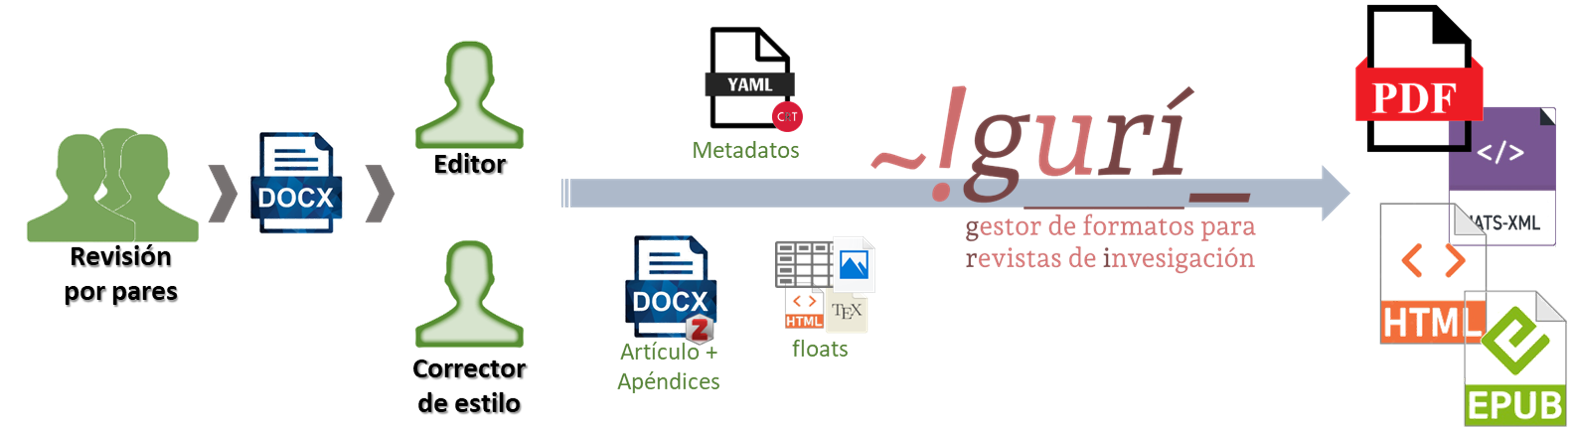
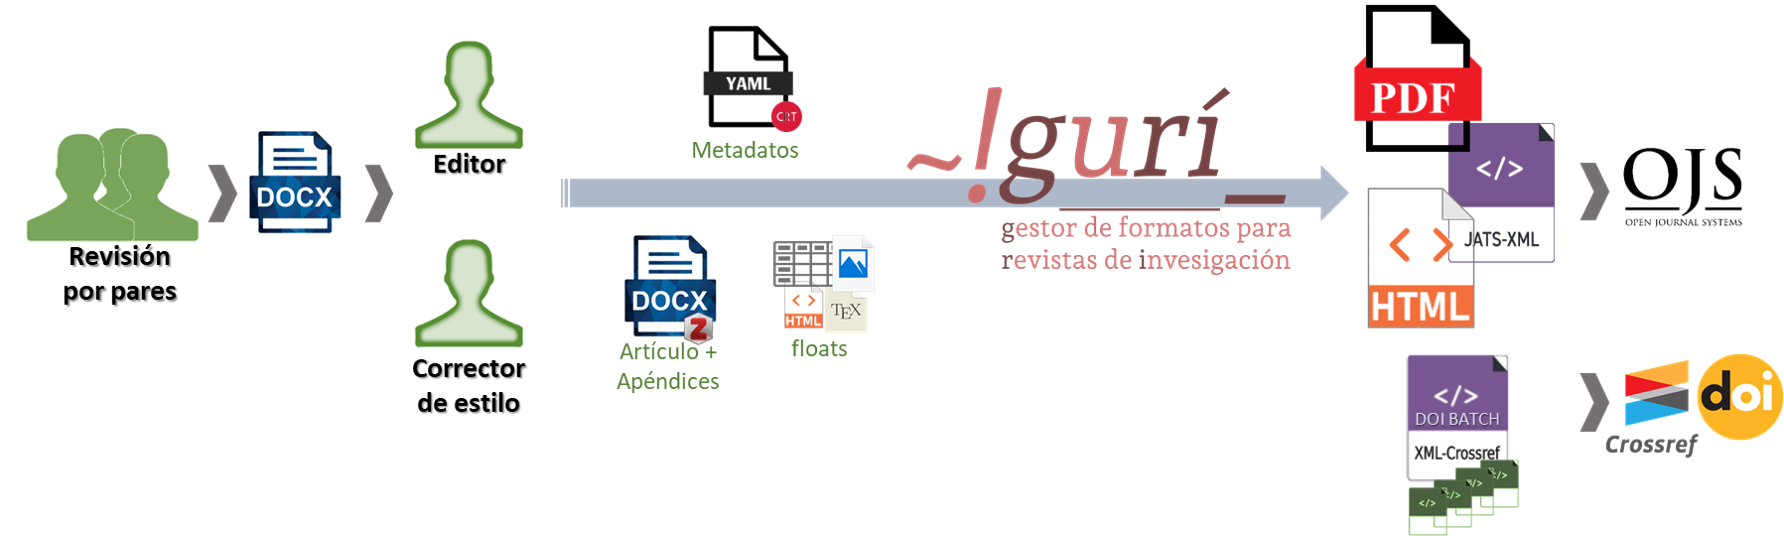
Actualice documentation

diff --git a/docs/index.html b/docs/index.html
@@ -220,18 +220,19 @@ pre > code.sourceCode > span > a:first-child::before { text-decoration: underlin
 <p><a href="http://creativecommons.org/licenses/by-nc-sa/4.0/"><img src="https://img.shields.io/badge/License-CC%20BY--NC--SA%204.0-lightgrey.svg" class="img-fluid" alt="CC BY-NC-SA 4.0"></a> <!--[![es](https://img.shields.io/badge/lang-es-yellow.svg)](https://github.com/estedeahora/guri/blob/main/README.md) [![en](https://img.shields.io/badge/lang-en-red.svg)](https://github.com/estedeahora/guri/blob/main/README.en.md)--></p>
 <section id="descripción-de-la-propuesta" class="level1">
 <h1>Descripción de la propuesta</h1>
-<p><code>~!gurí_</code> es una propuesta que facilita la etapa de producción editorial de revistas científicas, mediante la generación de documentos finales a partir de documentos obtenidos en la etapa de ‘corrección de pruebas’ en formato <code>docx</code>. La propuesta busca resolver las dificultades que atraviesan algunas revistas académicas de acceso diamante para la generación de documentos finales en diferentes formatos de forma consistente, evitando procesos duplicados y altos costos editoriales. Además, toma en cuenta que muchas revistas científicas utilizan como base de sus flujos de trabajos documentos <code>docx</code>. <!--  La propuesta surgió como respuesta a la dificultad de las revistas académcias de acceso diamante para generar los documentos finales del proceso de publicación sin aumentar los costos de publicación. --></p>
-<p>En términos resumidos, la propuesta propone esquematizar y separar los principales elementos que componen un artículo científico. Para ello, para cada artículo, se debe generar un archivo <code>docx</code> (generado mediante una plantilla predefinida y con las citas identificadas con Zotero) y un archivo <code>yaml</code> con los metadatos del artículo. Opcionalmente, puede brindarse otros archivos con información de la <a href="https://credit.niso.org/">taxonomía CRediT</a>, elementos flotantes (figuras y tablas) y apéndices. A partir de estos archivos iniciales se genera un archivo intermedio <code>markdown</code>, que se utiliza para generar los documentos finales (en formato <code>pdf</code>, <code>html</code> y <code>xml</code>). Por su diseño la propuesta permite una fuerte adaptación y personalización para que pueda ser adaptado a las particularidades y estética de cada revista.</p>
+<p><code>~!gurí_</code> es una propuesta que facilita la etapa de producción editorial de revistas científicas, mediante la generación de documentos finales a partir de documentos obtenidos de la etapa de ‘revisión de pares’ en formato <code>docx</code>. Para ello, esta propuesta se centra en el paquete de R <code>{guri}</code>, el cual se encarga de coordinar el proceso de generación de los documentos finales en diferentes formatos.</p>
+<p>Esta propuesta busca resolver las dificultades que atraviesan algunas revistas académicas de acceso diamante para la generación de documentos finales en diferentes formatos de forma consistente, evitando procesos duplicados y altos costos editoriales. Además, toma en cuenta que muchas revistas científicas utilizan como base de sus flujos de trabajos documentos <code>docx</code>. <!--  La propuesta surgió como respuesta a la dificultad de las revistas académcias de acceso diamante para generar los documentos finales del proceso de publicación sin aumentar los costos de publicación. --></p>
+<p>La propuesta propone esquematizar y separar los principales elementos que componen un artículo científico. Para ello, para cada artículo, se debe generar un archivo <code>docx</code> (generado mediante una plantilla predefinida y con las citas identificadas con Zotero) y un archivo <code>yaml</code> con los metadatos del artículo. Opcionalmente, puede brindarse otros archivos con información de la <a href="https://credit.niso.org/">taxonomía CRediT</a>, elementos flotantes (figuras y tablas) y apéndices. A partir de estos archivos iniciales se genera un archivo intermedio <code>markdown</code>, que se utiliza para generar los documentos finales (en formato <code>pdf</code>, <code>html</code> y <code>xml</code>). Por su diseño la propuesta permite una fuerte adaptación y personalización para que pueda ser adaptado a las particularidades y estética de cada revista.</p>
 <div class="quarto-figure quarto-figure-center">
 <figure class="figure">
 <p><img src="figures/scheme_gral.png" class="img-fluid figure-img"></p>
 <figcaption>Esquema general</figcaption>
 </figure>
 </div>
-<p>De forma resumida, podemos señalar que la propuesta de ~<code>!gurí_</code> se compone de dos aspectos que trabajan de forma coordinada: un flujo de trabajo y un conjunto de herramientas de programación. Por un lado, la propuesta exige adoptar un <em>flujo de trabajo</em>, que incluye una determinada organización de archivos y carpetas, así como el plantillado de los manuscritos siguiendo un conjunto de reglas predefinidas. Por otra parte, la propuesta se basa en un conjunto de <em>herramientas de programación</em> que se encargan de la creación de los documentos finales en los diferentes formatos. Gran parte de este trabajo se hace con <a href="https://pandoc.org/">Pandoc</a>, que es utilizado ‘debajo del capó’ para la conversión entre formatos de marcado. Para adaptar Pandoc a las necesidades de la edición académica, se utilizan un conjunto de filtros <em>Lua</em> y <em>plantillas</em> personalizadas. Por su parte, <a href="https://www.latex-project.org/"><em>LaTeX</em></a> se utiliza para generar los archivos en formato <code>pdf</code>. Por último, la propuesta utiliza el lenguaje de programación <em>R</em> para coordinar y ‘envolver’ todo el proceso, lo cual se realiza mediante el paquete <code>{guri}</code>, el cual es la herramienta.</p>
+<p>De forma resumida, podemos señalar que la propuesta de ~<code>!gurí_</code> se compone de dos aspectos que trabajan de forma coordinada: un flujo de trabajo y un conjunto de herramientas de programación. Por un lado, la propuesta exige adoptar un <em>flujo de trabajo</em>, que incluye una determinada organización de archivos y carpetas, así como el plantillado de los manuscritos siguiendo un conjunto de reglas predefinidas. Por otra parte, la propuesta se basa en un conjunto de <em>herramientas de programación</em> que se encargan de la creación de los documentos finales en los diferentes formatos. Gran parte de este trabajo se hace con <a href="https://pandoc.org/">Pandoc</a>, que es utilizado ‘debajo del capó’ para la conversión entre formatos de marcado. Para adaptar Pandoc a las necesidades de la edición académica, se utilizan un conjunto de filtros <em>Lua</em> y <em>plantillas</em> personalizadas. Por su parte, <a href="https://www.latex-project.org/"><em>LaTeX</em></a> se utiliza para generar los archivos en formato <code>pdf</code>. Por último, la propuesta utiliza el lenguaje de programación <em>R</em> para coordinar y ‘envolver’ todo el proceso. En términos prácticos, todo este proceso es coordinado por el paquete de <em>R</em> <code>{guri}</code>.</p>
 <section id="dependencias-de-software" class="level2">
 <h2 class="anchored" data-anchor-id="dependencias-de-software">Dependencias de software</h2>
-<p>Para el uso de esta herramienta se requiere tener previamente instalado <a href="https://cran.r-project.org/">R</a> (recomendable versión 4.3 o superior), siendo recomendable tener instalado el entorno de desarrollo <a href="https://posit.co/products/open-source/rstudio/">RStudio</a>, el cual facilita el trabajo con R. El paquete de R <code>{guri}</code> es el encargado de coordinar la propuesta de trabajo y la instalación de las otras dependencias de software necesarias (ver <code>guri_install()</code>). En este sentido, como parte de la configuración de <code>{guri}</code> el paquete instalará <a href="https://pandoc.org/">Pandoc</a> y una distribución de <em>LaTeX</em> denominada <a href="https://yihui.org/tinytex/">tinytex</a>, la cual tiene una robusta integración con R, facilitando la instalación de los paquetes de LaTeX que hicieran falta.<a href="#fn1" class="footnote-ref" id="fnref1" role="doc-noteref"><sup>1</sup></a> <!-- Si no tiene instalada una distribución de LaTeX o alguno de estos paquetes, pueden instalar automáticamente la distribución `tinytex` con la función `guri_install(install_tinytex = T)`. --></p>
+<p>Para el uso de esta herramienta se requiere tener previamente instalado <a href="https://cran.r-project.org/">R</a> (recomendable versión 4.3 o superior), siendo recomendable tener instalado el entorno de desarrollo <a href="https://posit.co/products/open-source/rstudio/">RStudio</a>, el cual facilita el trabajo con R. Si bien para el funcionamiento de la propuesta se utilizan otros programas, el paquete de R <code>{guri}</code> se encarga de la instalación de estas dependencias (ver <code>guri_install()</code>). En este sentido, como parte de la configuración de <code>{guri}</code> el paquete instalará <a href="https://pandoc.org/">Pandoc</a> y una distribución de <em>LaTeX</em> denominada <a href="https://yihui.org/tinytex/">tinytex</a>, la cual tiene una robusta integración con R, facilitando la instalación de los paquetes de LaTeX que hicieran falta.<a href="#fn1" class="footnote-ref" id="fnref1" role="doc-noteref"><sup>1</sup></a></p>
 </section>
 <section id="instalación" class="level2">
 <h2 class="anchored" data-anchor-id="instalación">Instalación</h2>
@@ -260,7 +261,7 @@ The final documents of this journal were generated using <a href="https://github
 <p><em>Português:</em><br>
 Os documentos finais desta revista foram gerados usando <a href="https://github.com/estedeahora/guri">~!guri_</a>.</p>
 </blockquote>
-<p>Esta obra está bajo una licencia <a href="http://creativecommons.org/licenses/by-nc-sa/4.0/">Creative Commons Attribution-NonCommercial-ShareAlike 4.0 International License</a>. Este software no ofrece garantía de ningún tipo.</p>
+<p>Esta herramienta está bajo una licencia <a href="http://creativecommons.org/licenses/by-nc-sa/4.0/">Creative Commons Attribution-NonCommercial-ShareAlike 4.0 International License</a>. Este software no ofrece garantía de ningún tipo.</p>
 <div class="quarto-figure quarto-figure-left">
 <figure class="figure">
 <p><a href="http://creativecommons.org/licenses/by-nc-sa/4.0/"><img src="https://licensebuttons.net/l/by-nc-sa/4.0/88x31.png" class="img-fluid quarto-figure quarto-figure-left figure-img" alt="CC BY-NC-SA 4.0"></a></p>
@@ -270,7 +271,7 @@ Os documentos finais desta revista foram gerados usando <a href="https://github.
 </section>
 <section id="contribuir" class="level2">
 <h2 class="anchored" data-anchor-id="contribuir">Contribuir</h2>
-<p>Se aceptan solicitudes de <!--extracción-->, informes de errores y solicitudes de funciones. <!-- Utilice los 'issue' o 'debates' de [Github](https://github.com/estedeahora/guri) --></p>
+<p>Se aceptan solicitudes de extracción, informes de errores y solicitudes de funciones. Utilice los <a href="https://github.com/estedeahora/guri/issues">issues</a> para informar errores o solicitar funciones.</p>
 
 
 </section>

diff --git a/docs/articles/get_started.html b/docs/articles/get_started.html
@@ -205,21 +205,23 @@ pre > code.sourceCode > span > a:first-child::before { text-decoration: underlin
 
 
 <p>Para realizar una prueba rápida de <code>~!gurí_</code> puede utilizar el ejemplo que se brinda con el paquete, el cual contiene los archivos necesarios para crear el ’Volumen 10 - Número 1” de una revista ficticia.</p>
-<p>Dado que <code>~!guri_</code> es, además de un paquete de R, un flujo de trabajo que interaccina con su estructura de directorios, es muy recomendable que ejecute este ejemplo desde un proyecto nuevo (información sobre <a href="https://r4ds.had.co.nz/workflow-projects.html">Proyectos de R</a>).<!--Para ello abra el proyecto de R utilizando el archivo `guri.Rproj` (puede hacerlo desde RStudio o haciendo doble click desde el explorador de archivos). Esto abrirá una sesión de R con el proyecto 'guri' abierto.--> La carpeta que utilice para su proyecto será la que alojará las diferentes revistas que úede gestionar. Una vez generado su proyecto, debe instalar el paquete <code>{gurí}</code> y cargarlo para que esté disponible en su ambiente de trabajo. El paquete {gurí}<code>no está aún disponible en</code>CRAN<code>, por lo cual debe realizar la instalación de forma directa desde</code>github<code>. Para ello puede utilizar el paquete</code>{pak}<code>que permite instalar paquetes desde</code>github` de forma simple (alternativamente puede utilizar el paqete {remotes}).</p>
+<p>Dado que <code>~!guri_</code> es, además de un paquete de R, un flujo de trabajo que interaccina con su estructura de directorios, es muy recomendable que ejecute este ejemplo desde un proyecto nuevo (información sobre <a href="https://r4ds.had.co.nz/workflow-projects.html">Proyectos de R</a>).<!--Para ello abra el proyecto de R utilizando el archivo `guri.Rproj` (puede hacerlo desde RStudio o haciendo doble click desde el explorador de archivos). Esto abrirá una sesión de R con el proyecto 'guri' abierto.--> La carpeta que utilice para su proyecto será la que alojará las diferentes revistas que úede gestionar. Una vez generado su proyecto, debe instalar el paquete {gurí} y cargarlo para que esté disponible en su ambiente de trabajo. El paquete <code>{gurí}</code> no está aún disponible en <em>CRAN</em>, por lo cual debe realizar la instalación de forma directa desde <em>Github</em>. Para ello puede utilizar el paquete <code>{pak}</code> que permite instalar paquetes desde <em>Github</em> de forma simple (alternativamente puede utilizar el paqete {remotes}).</p>
 <div class="sourceCode" id="cb1"><pre class="sourceCode r code-with-copy"><code class="sourceCode r"><span id="cb1-1"><a href="#cb1-1" aria-hidden="true" tabindex="-1"></a><span class="cf">if</span>(<span class="sc">!</span><span class="fu">require</span>(<span class="st">"pak"</span>)) <span class="fu">install.packages</span>(<span class="st">"pak"</span>)</span>
 <span id="cb1-2"><a href="#cb1-2" aria-hidden="true" tabindex="-1"></a></span>
-<span id="cb1-3"><a href="#cb1-3" aria-hidden="true" tabindex="-1"></a>pak<span class="sc">::</span><span class="fu">pkg_install</span>(<span class="st">"estedeahora/guri@*release"</span>, <span class="at">upgrade =</span> T)</span></code><button title="Copiar al portapapeles" class="code-copy-button"><i class="bi"></i></button></pre></div>
-<p>Si es la primera vez que usa <code>~!gurí_</code>, luego de que haya instalado el paquete <code>{gurí}</code> y que haya cargado el mismo en su ambiente de trabajo, deberá instalar las dependencias necesarias, a saber: Pandoc, la distribución <code>tinytex</code> de LaTeX y las librerías de LaTeX necesarias para que <code>~!gurí</code> pueda funcionar correctamente. Dependiendo de si ya tiene instalada estos programas esto puede tardar más o menos tiempo. Para instalar estas dependencias ejecute en la consola de R el siguiente comando:</p>
+<span id="cb1-3"><a href="#cb1-3" aria-hidden="true" tabindex="-1"></a>pak<span class="sc">::</span><span class="fu">pkg_install</span>(<span class="st">"estedeahora/guri"</span>, <span class="at">upgrade =</span> T)</span></code><button title="Copiar al portapapeles" class="code-copy-button"><i class="bi"></i></button></pre></div>
+<!-- pak::pkg_install("estedeahora/guri@*release", upgrade = T) -->
+<p>Si es la primera vez que usa <code>~!gurí_</code>, luego de que haya instalado el paquete <code>{gurí}</code> y que haya cargado el mismo en su ambiente de trabajo, deberá instalar las dependencias necesarias, a saber: <em>Pandoc</em>, la distribución <em>tinytex</em> de LaTeX y las librerías de LaTeX necesarias para que ~!gurí pueda funcionar correctamente. Dependiendo de si ya tiene instalada estos programas esto puede tardar más o menos tiempo y, asegúrese antes de comenzar contar con una conexión estable a internet. Para instalar estas dependencias ejecute en la consola de R lo siguiente:</p>
 <div class="sourceCode" id="cb2"><pre class="sourceCode r code-with-copy"><code class="sourceCode r"><span id="cb2-1"><a href="#cb2-1" aria-hidden="true" tabindex="-1"></a><span class="fu">library</span>(guri)</span>
 <span id="cb2-2"><a href="#cb2-2" aria-hidden="true" tabindex="-1"></a></span>
 <span id="cb2-3"><a href="#cb2-3" aria-hidden="true" tabindex="-1"></a><span class="fu">guri_install</span>(<span class="at">pandoc =</span> T, <span class="at">tinytex =</span> T)</span></code><button title="Copiar al portapapeles" class="code-copy-button"><i class="bi"></i></button></pre></div>
-<!-- descargado e instalado [Pandoc](https://pandoc.org/) y [R](https://cran.r-project.org/) (preferentemente también [RStudio](https://posit.co/products/open-source/rstudio/)), deberá instalar el paquete de [`~!gurí_`](https://github.com/estedeahora/guri/releases/latest). -->
-<p>Luego de esto está todo listo para generar nuestra revista de ejemplo. Luego la consola mostrará el progreso en la creación de los archivos (no es necesario que se preocupe por los detalles en esta ejecución de prueba). Para ello sólo debe ejecutar:</p>
+<p>Luego de esto ya tiene configurado su espacio de trabajo y está todo listo para generar nuestra revista de ejemplo. Para ello ejecute el siguiente comando;</p>
 <div class="sourceCode" id="cb3"><pre class="sourceCode r code-with-copy"><code class="sourceCode r"><span id="cb3-1"><a href="#cb3-1" aria-hidden="true" tabindex="-1"></a><span class="fu">guri_make_journal</span>(<span class="at">example =</span> <span class="cn">TRUE</span>, <span class="at">repository =</span> <span class="cn">TRUE</span>)</span></code><button title="Copiar al portapapeles" class="code-copy-button"><i class="bi"></i></button></pre></div>
-<p>Esto generará una carpeta con el nombre ‘example’ en su directorio de trabajo, el cual contendrá además de una carpeta con archivos de configuración (‘<em>config’) y con archivos utilizados para el flujo de trabajo editorial de una revista (’_</em>default-files’) una carpeta con un número ficticio de esta revista de ejemplo (‘num1’). Dentro de esta última carpeta encontrará un conjunto de carpetas correspondientes a los diferentes artículos de este número. Le recomendamos que explore sin modificar estos archivos para familiarizarse con los archivos utilizados durante el flujo de trabajo de <code>~!guri_</code>. Por último, para obtener los archivos finales (‘galeradas’) de este número de ejemplo debe ejecutar el siguiente código:</p>
-<div class="sourceCode" id="cb4"><pre class="sourceCode r code-with-copy"><code class="sourceCode r"><span id="cb4-1"><a href="#cb4-1" aria-hidden="true" tabindex="-1"></a><span class="fu">GRUI_output_issue</span>(<span class="st">'num1'</span>, <span class="at">journal =</span> <span class="st">'example'</span>)</span></code><button title="Copiar al portapapeles" class="code-copy-button"><i class="bi"></i></button></pre></div>
-<p>Como resultado de este proceso, dentro de la carpeta de cada artículo (<code>./example/num1/art*</code>) encontrará ahora un directorio <code>/_output/</code> con los archivos finales resultantes. También puede ver algunos archivos auxiliares utilizados en el proceso de construcción de los archivos finales (<code>/_temp/</code>).</p>
-<p>Para una descripción de los pasos realizados en este ejemplo, le recomendamos que lea la documentación sobre <a href="articles/configuration.html">configuración</a> y <a href="articles/editing.html">uso de <code>~!gurí_</code></a>.</p>
+<p>Esto mostrará en la consola el progreso de la creación de los archivos de su revista de ejemplo (no es necesario que se preocupe por ahora por los detalles en esta ejecución de prueba). Como resultado, se generará una carpeta con el nombre ‘example’ en su directorio de trabajo, el cual contendrá una carpeta con archivos de configuración (’_config’), otra con los archivos que le servirán como modelo en el flujo de trabajo editorial de una revista (‘_default-files’) y una carpeta con un número ficticio de esta revista de ejemplo (‘vol10num1’). Dentro de esta última carpeta encontrará un conjunto de carpetas correspondientes a los diferentes artículos de este número (cada una comienza con el prefijo ‘art’ seguida por tres números y un nombre de referencia). Le recomendamos que explore sin modificar estos archivos para familiarizarse con los archivos utilizados durante el flujo de trabajo de <code>~!guri_</code>.</p>
+<p>Por último, para obtener los archivos finales (‘galeradas’) de este número de ejemplo debe ejecutar el siguiente código:</p>
+<div class="sourceCode" id="cb4"><pre class="sourceCode r code-with-copy"><code class="sourceCode r"><span id="cb4-1"><a href="#cb4-1" aria-hidden="true" tabindex="-1"></a><span class="fu">guri_outputs</span>(<span class="at">art_id =</span> <span class="st">'all'</span>, <span class="at">issue =</span> <span class="st">'vol10num1'</span>,</span>
+<span id="cb4-2"><a href="#cb4-2" aria-hidden="true" tabindex="-1"></a>             <span class="at">journal =</span> <span class="st">'example'</span>, <span class="at">doi_batch =</span> T)</span></code><button title="Copiar al portapapeles" class="code-copy-button"><i class="bi"></i></button></pre></div>
+<p>Como resultado de este proceso, dentro de la carpeta de cada artículo (<code>./example/vol10num1/art*_nombre</code>) encontrará un directorio <code>/_output/</code> con los archivos finales resultantes. También encontrará una carpeta <code>/_temp/</code> con archivos auxiliares, utilizados en el proceso de construcción de los archivos finales, y otra carpeta <code>/_log/</code> con archivos que contienen información del proceso de conversión. Por último, encontrará que en dentro de la carpeta del número (<code>./example/vol10num1/</code>) se creo una carpeta <code>doi_register</code> que contiene archivos que puede utilizar para el deposito de DOI en Crossref.</p>
+<p>Para una descripción más detallada de los pasos realizados en este ejemplo, le recomendamos que lea la documentación sobre <a href="articles/configuration.html">configuración</a> y <a href="articles/editing.html">uso de <code>~!gurí_</code></a>.</p>
 
 
 

diff --git a/README.md b/README.md
@@ -7,25 +7,49 @@
 [![R-CMD-check](https://github.com/estedeahora/guri/actions/workflows/R-CMD-check.yaml/badge.svg)](https://github.com/estedeahora/guri/actions/workflows/R-CMD-check.yaml)
 <!-- badges: end -->
 
-La herramienta `~!gurí_` es un flujo de trabajo y un conjunto de herramientas que facilitan una automatización del proceso de generación de documentos finales para revistas científicas a partir de documentos obtenidos en la etapa de 'corrección de pruebas'. La herramienta se basa en el uso de [Pandoc](https://pandoc.org/) como herramienta de conversión entre formatos, a la cual se incorpora un conjunto de filtros *Lua* y plantillas personalizadas, así como un flujo de trabajo que permite la correcta conversión de los documentos ingresados.
+`~!gurí_` es una propuesta que facilita la etapa de producción editorial de revistas científicas, mediante la generación de documentos finales a partir de documentos obtenidos de la etapa de 'revisión de pares' en formato `docx`. Para ello, esta propuesta se centra en el paquete de R `{guri}`, el cual se encarga de coordinar el proceso de generación de los documentos finales en diferentes formatos. 
+
+Esta propuesta busca resolver las dificultades que atraviesan algunas revistas académicas de acceso diamante para la generación de documentos finales en diferentes formatos de forma consistente, evitando procesos duplicados y altos costos editoriales. Además, toma en cuenta que muchas revistas científicas utilizan como base de sus flujos de trabajos documentos `docx`. <!--  La propuesta surgió como respuesta a la dificultad de las revistas académcias de acceso diamante para generar los documentos finales del proceso de publicación sin aumentar los costos de publicación. -->
+
+La propuesta propone esquematizar y separar los principales elementos que componen un artículo científico. Para ello, para cada artículo, se debe generar un archivo `docx` (generado mediante una plantilla predefinida y con las citas identificadas con Zotero) y un archivo `yaml` con los metadatos del artículo. Opcionalmente, puede brindarse otros archivos con información de la [taxonomía CRediT](https://credit.niso.org/), elementos flotantes (figuras y tablas) y apéndices. A partir de estos archivos iniciales se genera un archivo intermedio `markdown`, que se utiliza para generar los documentos finales (en formato `pdf`, `html` y `xml`). Además, esta herramienta permite generar un archivo xml para el depósito de DOI en Crossref. Por su diseño, la propuesta permite una fuerte adaptación y personalización para que pueda ser adaptado a las particularidades y estética de cada revista.
 
 ![Esquema general](docs/figures/scheme_gral.png)
+
+De forma resumida, podemos señalar que la propuesta de \~`!gurí_` se compone de dos aspectos que trabajan de forma coordinada: un flujo de trabajo y un conjunto de herramientas de programación. Por un lado, la propuesta exige adoptar un *flujo de trabajo*, que incluye una determinada organización de archivos y carpetas, así como el plantillado de los manuscritos siguiendo un conjunto de reglas predefinidas. Por otra parte, la propuesta se basa en un conjunto de *herramientas de programación* que se encargan de la creación de los documentos finales en los diferentes formatos. Gran parte de este trabajo se hace con [Pandoc](https://pandoc.org/), que es utilizado 'debajo del capó' para la conversión entre formatos de marcado. Para adaptar Pandoc a las necesidades de la edición académica, se utilizan un conjunto de filtros *Lua* y *plantillas* personalizadas. Por su parte, [*LaTeX*](https://www.latex-project.org/) se utiliza para generar los archivos en formato `pdf`. Por último, la propuesta utiliza el lenguaje de programación *R* para coordinar y 'envolver' todo el proceso. En términos prácticos, todo este proceso es coordinado por el paquete de *R* `{guri}`. 
 
 ## Documentación
 
 Una descripción de la propuesta puede encontrarse en la [documentación](https://estedeahora.github.io/guri/) de usuario.
 
-## Dependencias
+## Dependencias de software
 
-Para el uso de esta herramienta se requiere la instalación de los siguientes programas:
+Para el uso de esta herramienta se requiere tener previamente instalado [R](https://cran.r-project.org/) (recomendable versión 4.3 o superior), siendo recomendable tener instalado el entorno de desarrollo [RStudio](https://posit.co/products/open-source/rstudio/), el cual facilita el trabajo con R. Si bien para el funcionamiento de la propuesta se utilizan otros programas, el paquete de R `{guri}` se encarga de la instalación de estas dependencias (ver `guri_install()`). En este sentido, como parte de la configuración de `{guri}` el paquete instalará [Pandoc](https://pandoc.org/) y una distribución de *LaTeX* denominada [tinytex](https://yihui.org/tinytex/), la cual tiene una robusta integración con R, facilitando la instalación de los paquetes de LaTeX que hicieran falta.[^1]
 
--   [Pandoc](https://pandoc.org/) (versión 3.1.10 o superior);
--   [R](https://cran.r-project.org/) y los paquetes `tidyverse`, `rmarkdown`, `readxl`, `tinytex` y `crayon`;
--   Alguna distribución de *LaTeX*. Se recomienda utilizar [TinyTeX](https://yihui.org/tinytex/) , que fue pensada para utilizarse directamente desde R y facilita gran parte del proceso de instalación de paquetes sin requerir demasiados conocimientos sobre el tema. De hecho esta versión se utiliza de forma predeterminada para la generación de archivos `PDF`.
+[^1]: De forma predeterminada se instalarán además los siguientes paquetes de `LaTeX` que son utilizados por la pantilla de Pandoc: [`amsfonts`](https://ctan.org/pkg/amsfonts), [`amsmath`](https://ctan.org/pkg/amsmath), [`lm`](https://ctan.org/pkg/lm), [`unicode-math`](https://ctan.org/pkg/unicode-math), [`iftex`](https://ctan.org/pkg/iftex), [`listings`](https://ctan.org/pkg/listings), [`fancyvrb`](https://ctan.org/pkg/fancyvrb), [`longtable`](https://ctan.org/pkg/longtable), [`booktabs`](https://ctan.org/pkg/booktabs), [`graphicx`](https://ctan.org/pkg/graphicx), [`hyperref`](https://ctan.org/pkg/hyperref), [`xcolor`](https://ctan.org/pkg/xcolor), [`soul`](https://ctan.org/pkg/soul), [`geometry`](https://ctan.org/pkg/geometry), [`setspace`](https://ctan.org/pkg/setspace), [`babel`](https://ctan.org/pkg/babel), [`xeCJK`](https://ctan.org/pkg/xecjk), [`fontspec`](https://ctan.org/pkg/fontspec), [`selnolig`](https://ctan.org/pkg/selnolig), [`mathspec`](https://ctan.org/pkg/mathspec), [`biblatex`](https://ctan.org/pkg/biblatex), [`bibtex`](https://ctan.org/pkg/bibtex), [`biber`](https://ctan.org/pkg/biber), [`upquote`](https://ctan.org/pkg/upquote), [`microtype`](https://ctan.org/pkg/microtype), [`csquotes`](https://ctan.org/pkg/csquotes), [`natbib`](https://ctan.org/pkg/natbib), [`bookmark`](https://ctan.org/pkg/bookmark), [`footnotehyper`](https://ctan.org/pkg/footnotehyper), [`footnote`](https://ctan.org/pkg/footnote), [`xurl`](https://ctan.org/pkg/xurl), [`parskip`](https://ctan.org/pkg/parskip) y [svg](https://ctan.org/pkg/svg). A su vez, la adaptación de la plantilla utiliza los siguientes paquetes: [`adjustbox`](https://ctan.org/pkg/adjustbox), [`fontawesome5`](https://ctan.org/pkg/fontawesome5), [`caption`](https://ctan.org/pkg/caption), [`ccicons`](https://ctan.org/pkg/ccicons), [relsize](https://ctan.org/pkg/relsize), [`truncate`](https://ctan.org/pkg/truncate), [`lastpage`](https://ctan.org/pkg/lastpage) y [`koma-script`](https://ctan.org/pkg/koma-script).
+
+## Instalación
+
+Deberá instalar {guri} desde el repositorio github, para lo cual puede utilizar {remotes} o {pak} según usted prefiera.
+
+``` r
+# install.packages("remotes")
+remotes::install_github("estedeahora/guri")
+
+# or
+
+# install.packages("pak")
+pak::pkg_install("estedeahora/guri")
+```
+Una vez instalado {guri} deberá cargar el paquete e instalar las dependencias externas (Pandoc y Tinytex). Este proceso puede tardar unos minutos y requiere una conexión estable a internet.
+
+``` r
+library(guri)
+guri_install()
+```
 
 ## Licencia
 
-Esta herramienta puede usarse para la producción de revistas de acceso diamante (sin cobro de cargos de procesamiento y sin muros de pago) sin ningún límite salvo la atribución. En este sentido, se solicita que si su revista utiliza esta herramienta como parte de su proceso editorial agregue el siguiente texto dentro de su página web (habitualmente dentro de la sección de 'política editorial') en los diferentes idiomas que utilice en la revista:
+*`~!gurí_`* puede usarse como parte del proceso de producción de *revistas de acceso diamante* (revistas sin cobro de cargos de procesamiento y sin muros de pago). Más allá de esta restricción, no existe ningún límite salvo la atribución de autoría. En este sentido, se solicita que si su revista utiliza esta herramienta como parte de su proceso editorial agregue el siguiente texto dentro de su página web (habitualmente dentro de la sección de 'política editorial') en los diferentes idiomas que utilice en la revista:
 
 > *Español:*\
 > Los documentos finales de esta revista fueron generados utilizando [\~!guri\_](https://github.com/estedeahora/guri).
@@ -36,22 +60,23 @@ Esta herramienta puede usarse para la producción de revistas de acceso diamante
 > *Português:*\
 > Os documentos finais desta revista foram gerados usando [\~!guri\_](https://github.com/estedeahora/guri).
 
-Esta obra está bajo una licencia [Creative Commons Attribution-NonCommercial-ShareAlike 4.0 International License](http://creativecommons.org/licenses/by-nc-sa/4.0/). Este software no ofrece garantía de ningún tipo.
+Esta herramienta está bajo una licencia [Creative Commons Attribution-NonCommercial-ShareAlike 4.0 International License](http://creativecommons.org/licenses/by-nc-sa/4.0/). Este software no ofrece garantía de ningún tipo.
 
 [![CC BY-NC-SA 4.0](https://licensebuttons.net/l/by-nc-sa/4.0/88x31.png)](http://creativecommons.org/licenses/by-nc-sa/4.0/)
 
 ## Contribuir
 
-Se aceptan solicitudes de extracción, informes de errores y solicitudes de funciones.
+Se aceptan solicitudes de extracción, informes de errores y solicitudes de funciones. Utilice los [issues](https://github.com/estedeahora/guri/issues) para informar errores o solicitar funciones.
 
 ## Futuras mejoras
 
 1.  [x] Transformar funciones en paquete de R.
 2.  [x] Permitir filtros personalizados.
 3.  [x] Agregar soporte para permitir primer idioma diferente de español.
-4.  [ ] Desarrollar aplicación web para facilitar la generación de archivos yaml.
-5.  [ ] Integrar con OJS.
-6.  [ ] Posibilitar uso desde línea de comando (y luego desde aplicación).
-7.  [ ] Ofrecer múltiples templates como opción con `guri_make_journal`.
-8.  [ ] Agregar ebook como formato de salida.
-9.  [ ] Incorporar requerimientos de *Scielo*.
+4.  [x] Permitir salida para depósito DOI en Crossref.
+5.  [ ] Desarrollar aplicación web para facilitar la generación de archivos yaml.
+6.  [ ] Integrar con OJS.
+7.  [ ] Posibilitar uso desde línea de comando (y luego desde aplicación).
+8.  [ ] Ofrecer múltiples templates como opción con `guri_make_journal`.
+9.  [ ] Agregar ebook como formato de salida.
+10.  [ ] Incorporar requerimientos de *Scielo*.

diff --git a/README.en.md b/README.en.md
@@ -2,31 +2,54 @@
 
 ## Gestor Unificado de formatos para Revistas de Investigación [*Unified Format Manager for Research Journals*]
 
-[![CC BY-NC-SA 4.0](https://img.shields.io/badge/License-CC%20BY--NC--SA%204.0-lightgrey.svg)](http://creativecommons.org/licenses/by-nc-sa/4.0/) [![es](https://img.shields.io/badge/lang-es-yellow.svg)](https://github.com/estedeahora/guri/blob/main/README.md) [![en](https://img.shields.io/badge/lang-en-red.svg)](https://github.com/estedeahora/guri/blob/main/README.en.md)
+<!-- badges: start -->
+[![CC BY-NC-SA 4.0](https://img.shields.io/badge/License-CC%20BY--NC--SA%204.0-lightgrey.svg)](http://creativecommons.org/licenses/by-nc-sa/4.0/) [![es](https://img.shields.io/badge/lang-es-yellow.svg)](https://github.com/estedeahora/guri/blob/main/README.md) [![en](https://img.shields.io/badge/lang-en-red.svg)](https://github.com/estedeahora/guri/blob/main/README.en.md) <!-- [![pt-br](https://img.shields.io/badge/lang-pt--br-green.svg)](https://github.com/jonatasemidio/multilanguage-readme-pattern/blob/master/README.pt-br.md)-->
+[![R-CMD-check](https://github.com/estedeahora/guri/actions/workflows/R-CMD-check.yaml/badge.svg)](https://github.com/estedeahora/guri/actions/workflows/R-CMD-check.yaml)
+<!-- badges: end -->
 
-This project makes it possible to automate the process of generating final documents for scientific journals from documents obtained in the proofreading stage. The tool is based on the use of [Pandoc](https://pandoc.org/) as a tool for conversion between formats, to which it incorporates a set of *Lua* filters, as well as a workflow that allows the correct conversion of the documents entered.
+`~!gurí_` is a project that facilitates the editorial production of scientific journals, through the generation of output documents from manuscript obtained in the 'peer review' phase in `docx` format.  For this purpose, this project is based on the R package `{guri}`, which coordinates the process of generating the final documents in different formats. 
 
-The project is a preliminary version.
+This project aims to solve the difficulties faced by some diamond-access academic journals in generating final documents in different formats in a consistent way, avoiding duplicated processes and high editorial costs. It also takes into account that many scientific journals use `docx` documents as the basis of their workflows.
+
+The aim of the project is to outline and separate the main elements that make up a scientific article. To do this, for each article, a `docx` file must be generated ( using a predefined template and with the citations identified with Zotero) and a `yaml` file with the metadata of the article. Optionally, other files can be provided with information from the [CRediT taxonomy](https://credit.niso.org/), floating elements (figures and tables) and appendices. From these initial files an intermediate `markdown` file is generated, which is used to generate the final documents (in `pdf`, `html` and `xml` format). In addition, this tool allows the generation of an xml file for the DOI deposit in Crossref. Due to its design, the project allows a strong adaptation and customisation so that it can be adapted to the particularities and aesthetics of each journal.
+
+![General scheme](docs/figures/scheme_gral.png)
+
+In short, we can say that the project consists of two aspects that work together: a workflow and a set of programming tools. On the one hand, the project requires the adoption of a *workflow*, which includes a certain organisation of files and folders, as well as the templating of manuscripts following a set of predefined rules. Moreover, the project is based on a set of *programming tools* that take care of the creation of the final documents in the different formats. Much of this work is done with [Pandoc](https://pandoc.org/), which is used 'under the bonnet' for conversion between mark-up formats. To adapt Pandoc to the needs of academic publishing, a set of *Lua* filters and custom *templates* are used. In addition, [*LaTeX*](https://www.latex-project.org/) is used to generate the files in `pdf` format. Finally, the project uses the *R* programming language to coordinate and 'wrap' the whole process. In practice, this whole process is coordinated by the *R* package `{guri}`. 
 
 ## Documentation
 
-A detail of the work proposal and file preparation can be found in the [documentation web](https://estedeahora.github.io/guri/). To generate the final files you must run the [code available in the ./scripts](script/) folder.
+A detail of the work proposal and file preparation can be found in the [documentation web](https://estedeahora.github.io/guri/). 
 
-## Dependences
+## Software dependencies
 
-The following software is required to use this tool:
+The use of this tool requires the prior installation of [R](https://cran.r-project.org/) (version 4.3 or higher recommended), being recommended to have installed [RStudio](https://posit.co/products/open-source/rstudio/), which facilitates the work with R. Although other programs are used for the operation of the project, the R package `{guri}` is responsible for the installation of these dependencies (see `guri_install()`). Therefore, as part of the `{guri}` configuration, the package will install [Pandoc](https://pandoc.org/) and a *LaTeX* distribution called [tinytex](https://yihui.org/tinytex/), which has a robust integration with R, facilitating the installation of the necessary LaTeX packages.[^1]
 
--   [Pandoc](https://pandoc.org/);
--   [R](https://cran.r-project.org/) and the r libraries: `tidyverse`, `rmarkdown`, `readxl`, `tinytex` y `crayon`;
--   Some distribution of *LaTeX*. It is recommended to use [TinyTeX](https://yihui.org/tinytex/) , which is intended to be used directly from R and facilitates much of the package installation process without requiring too much knowledge of the subject. In fact this version is used by default for the generation of `PDF` files.
+[^1] By default, the following `LaTeX` packages which are used by the Pandoc template will also be installed: [`amsfonts`](https://ctan.org/pkg/amsfonts), [`amsmath`](https://ctan.org/pkg/amsmath), [`lm`](https://ctan.org/pkg/lm), [`unicode-math`](https://ctan.org/pkg/unicode-math), [`iftex`](https://ctan.org/pkg/iftex), [`listings`](https://ctan.org/pkg/listings), [`fancyvrb`](https://ctan.org/pkg/fancyvrb), [`longtable`](https://ctan.org/pkg/longtable), [`booktabs`](https://ctan.org/pkg/booktabs), [`graphicx`](https://ctan.org/pkg/graphicx), [`hyperref`](https://ctan.org/pkg/hyperref), [`xcolor`](https://ctan.org/pkg/xcolor), [`soul`](https://ctan.org/pkg/soul), [`geometry`](https://ctan.org/pkg/geometry), [`setspace`](https://ctan.org/pkg/setspace), [`babel`](https://ctan.org/pkg/babel), [`xeCJK`](https://ctan.org/pkg/xecjk), [`fontspec`](https://ctan.org/pkg/fontspec), [`selnolig`](https://ctan.org/pkg/selnolig), [`mathspec`](https://ctan.org/pkg/mathspec), [`biblatex`](https://ctan.org/pkg/biblatex), [`bibtex`](https://ctan.org/pkg/bibtex), [`biber`](https://ctan.org/pkg/biber), [`upquote`](https://ctan.org/pkg/upquote), [`microtype`](https://ctan.org/pkg/microtype), [`csquotes`](https://ctan.org/pkg/csquotes), [`natbib`](https://ctan.org/pkg/natbib), [`bookmark`](https://ctan.org/pkg/bookmark), [`footnotehyper`](https://ctan.org/pkg/footnotehyper), [`footnote`](https://ctan.org/pkg/footnote), [`xurl`](https://ctan.org/pkg/xurl), [`parskip`](https://ctan.org/pkg/parskip) and [svg](https://ctan.org/pkg/svg). In turn, the adaptation of the template uses the following packages:  [`adjustbox`](https://ctan.org/pkg/adjustbox), [`fontawesome5`](https://ctan.org/pkg/fontawesome5), [`caption`](https://ctan.org/pkg/caption), [`ccicons`](https://ctan.org/pkg/ccicons), [relsize](https://ctan.org/pkg/relsize), [`truncate`](https://ctan.org/pkg/truncate), [`lastpage`](https://ctan.org/pkg/lastpage) and [`koma-script`](https://ctan.org/pkg/koma-script).
 
-## Contributing
+## Installation
 
-Pull requests, bug reports, and feature requests are welcome.
+You must install {guri} from the github repository, for which you can use {remotes} or {pak} as you prefer.
+
+``` r
+# install.packages("remotes")
+remotes::install_github("estedeahora/guri")
+
+# or 
+
+# install.packages("pak")
+pak::pkg_install("estedeahora/guri")
+```
+Once {guri} is installed, you must load the package and install the external dependencies (Pandoc and Tinytex). This process may take a few minutes and requires a stable internet connection.
+
+``` r
+library(guri)
+guri_install()
+```
 
 ## Licence
 
-If your journal uses this tool as part of its editorial process, please add the following text within your website (usually within the 'editorial policy' section) in the different languages used in the journal:
+*`~!gurí_`* can be used as part of the production process of *diamond access journals* (journals without Article Processing Charges -APC- and without paywalls). Beyond this restriction, there are no limits other than authorship attribution. If your journal uses this tool as part of its editorial process, please add the following text within your website (usually within the 'editorial policy' section) in the different languages used in the journal:
 
 > *Español:*\
 > Los documentos finales de esta revista fueron generados utilizando [\~!guri](https://github.com/estedeahora/guri).
@@ -40,3 +63,7 @@ If your journal uses this tool as part of its editorial process, please add the 
 This work is licensed under a [Creative Commons Attribution-NonCommercial-ShareAlike 4.0 International License](http://creativecommons.org/licenses/by-nc-sa/4.0/). This software carries no warranty of any kind.
 
 [![CC BY-NC-SA 4.0](https://licensebuttons.net/l/by-nc-sa/4.0/88x31.png)](http://creativecommons.org/licenses/by-nc-sa/4.0/)
+
+## Contributing
+
+Pull requests, bug reports, and feature requests are welcome. Use the [issues](https://github.com/estedeahora/guri/issues) to report bugs or request features.
